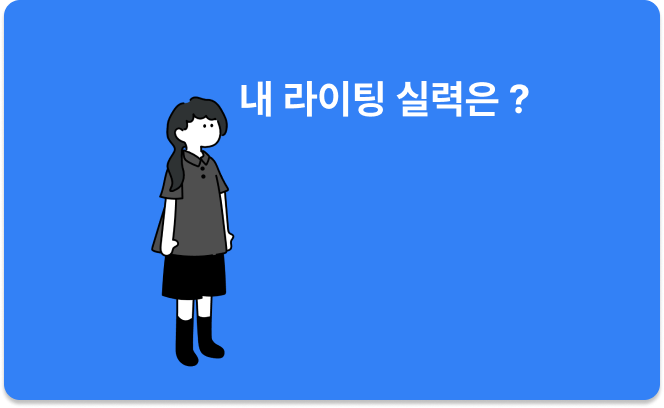
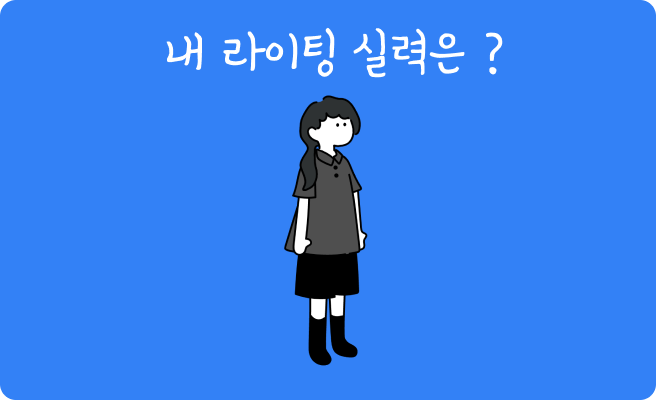
레이아웃 수정

Changed region(s): [[0.2134, 0.06, 0.7927, 0.93], [0.0, 0.0, 1.0, 1.0], [0.2439, 0.09, 0.3049, 0.18]]

diff --git a/src/views/Game.vue b/src/views/Game.vue
@@ -1,64 +1,73 @@
 <template>
-  <div>
-    <div v-if="!isDataLoaded" class="container text-center spinner-container">
-      <div class="spinner-border" role="status">
-        <span class="visually-hidden">로딩 중...</span>
-      </div>
-    </div>
-  </div>
-  <!-- 시작  -->
-  <div class="container-sm w-50 p-3" v-if="isDataLoaded">
-    <!--progress bar -->
-    <div class="row justify-content-center">
-      <div class="col-9 ">
-        <p class="text-end" style="font-size: 15px; margin-bottom: 0; color: #3182F7"><strong>{{ questionIndex + 1 }}
-          / {{ quizArray.length }}</strong></p>
-        <div class="progress" style="height: 10px;">
-          <div class="progress-bar" role="progressbar" style="background-color: #3182F7"
-               :style="{width: ((questionIndex+1)/quizArray.length)*100 + '%'}"
-               :aria-valuenow="((questionIndex+1)/quizArray.length)*100" aria-valuemin="0"
-               aria-valuemax="100">
+  <div class="container">
+    <div class="row">
+      <div class="row">
+        <div v-if="!isDataLoaded" class="spinner-container">
+          <div class="spinner-border" role="status">
+            <span class="visually-hidden">로딩 중...</span>
           </div>
         </div>
       </div>
-    </div>
-    <!-- 글씨 부분 -->
-    <div class="row py-3 justify-content-center">
-      <h1> Quiz {{ questionIndex + 1 }} </h1>
-      <img v-if="!isClickHint" src="../assets/hintButton.png" style="width: 137px; height: 40px"
-           @click="clickHint()">
-      <p v-if="isQuizPage && isClickHint" style="font-family:'나눔 고딕';"> 힌트 : {{ quizArray[questionIndex].hint }}</p>
-      <p v-if="!isQuizPage" style="font-family:'맑은 고딕'; color: #3182F7">{{
-          quizArray[questionIndex].explanation
-        }}</p>
-    </div>
+      <!-- 시작  -->
 
-    <!-- 퀴즈 부분 -->
-    <div class="row justify-content-center py-4 px-1" style="background-color: #F2F3F5; border-radius: 25px;">
-      <div class="col-xl-6 px-3 main1" :class="{ lowOpacity: correctAnswer === 'B'}">
-        <img v-bind:class="{ viewBorder : isBorderA }" src="./../assets/A.png"
-             @click="selectAnswer('B')"
-             class="d-block mx-auto"
-             style="margin-bottom: 26px;" @mouseover="viewBorder('A')" @mouseleave="viewBorder('A')">
-        <img v-bind:class="{ viewBorder : isBorderA }" :src="quizArray[questionIndex].imageA"
-             @click="selectAnswer('A')"
-             @mouseover="viewBorder('A')" @mouseleave="viewBorder('A')"/>
-        <br>
+      <div class="row my-3 justify-content-center" v-if="isDataLoaded">
+        <!--progress bar -->
+        <div class="row justify-content-center">
+          <div class="col-4 ">
+            <p class="text-end" style="font-size: 15px; margin-bottom: 0; color: #3182F7">
+              <strong>{{ questionIndex + 1 }} / {{ quizArray.length }}</strong></p>
+            <div class="progress" style="height: 10px;">
+              <div class="progress-bar" role="progressbar" style="background-color: #3182F7"
+                   :style="{width: ((questionIndex+1)/quizArray.length)*100 + '%'}"
+                   :aria-valuenow="((questionIndex+1)/quizArray.length)*100" aria-valuemin="0"
+                   aria-valuemax="100">
+              </div>
+            </div>
+          </div>
+        </div>
+
+        <!-- 글씨 부분 -->
+        <div class="row my-3 justify-content-center">
+          <h1> Quiz {{ questionIndex + 1 }} </h1>
+          <img class="img-fluid my-2" v-if="!isClickHint" src="../assets/hintButton.png" style="width: 137px; height: 40px"
+               @click="clickHint()">
+          <p v-if="isQuizPage && isClickHint" style="font-family:'나눔 고딕'; height: 40px"> 힌트 : {{ quizArray[questionIndex].hint }}</p>
+          <p v-if="!isQuizPage" style="font-family:'맑은 고딕';height: 40px; color: #3182F7">{{
+              quizArray[questionIndex].explanation
+            }}</p>
+        </div>
+
+        <!-- 퀴즈 부분 -->
+        <div class="row justify-content-center my-2">
+          <div class="col-6 main1 col-md-3" :class="{ lowOpacity: correctAnswer === 'B'}" style="background-color: lightgray; border-radius: 25px 0 0 25px">
+            <img class="img-fluid my-3 initial-quiz" v-bind:class="{ viewBorder : isBorderA }"
+                 src="./../assets/A.png"
+                 @click="selectAnswer('B')"
+                 @mouseover="viewBorder('A')" @mouseleave="viewBorder('A')">
+            <br>
+            <img class="img-fluid initial-quiz" v-bind:class="{ viewBorder : isBorderA }"
+                 :src="quizArray[questionIndex].imageA"
+                 @click="selectAnswer('A')"
+                 @mouseover="viewBorder('A')" @mouseleave="viewBorder('A')" style="margin-bottom: 11px"/>
+          </div>
+          <div class="col-6 main2 col-md-3" :class="{ lowOpacity: correctAnswer === 'A'}" style="background-color: lightgray; border-radius: 0 25px 25px 0">
+            <img class="img-fluid my-3 initial-quiz" v-bind:class="{ viewBorder : isBorderB }"
+                 src="./../assets/B.png"
+                 @click="selectAnswer('B')"
+                 @mouseover="viewBorder('B')" @mouseleave="viewBorder('B')">
+            <br>
+            <img class="img-fluid initial-quiz" v-bind:class="{ viewBorder : isBorderB }"
+                 :src="quizArray[questionIndex].imageB"
+                 @click="selectAnswer('B')"
+                 @mouseover="viewBorder('B')" @mouseleave="viewBorder('B')"/>
+          </div>
+        </div>
+        <div class="col" v-if="!isQuizPage" :key="questionIndex" style="margin-top: 0">
+          <br>
+          <img v-bind:class="{lowOpacity: hoverNextButton }" src="../assets/nextButton.png" @click="nextRound()"
+               @mouseover="hoverButton()" @mouseleave="hoverButton()">
+        </div>
       </div>
-      <div class="col-xl-6 px-3 main2" v-bind:class="{ lowOpacity: correctAnswer === 'A'}">
-        <img v-bind:class="{ viewBorder : isBorderB }" src="./../assets/B.png"
-             @click="selectAnswer('B')"
-             class="d-block mx-auto"
-             style="margin-bottom: 26px;" @mouseover="viewBorder('B')" @mouseleave="viewBorder('B')">
-        <img v-bind:class="{ viewBorder : isBorderB }" :src="quizArray[questionIndex].imageB"
-             @click="selectAnswer('B')"
-             @mouseover="viewBorder('B')" @mouseleave="viewBorder('B')"/>
-      </div>
-    </div>
-    <div class="col" v-if="!isQuizPage" :key="questionIndex">
-      <br>
-      <img v-bind:class="{lowOpacity: hoverNextButton }" src="../assets/nextButton.png" @click="nextRound()"
-           @mouseover="hoverButton()" @mouseleave="hoverButton()">
     </div>
   </div>
 </template>
@@ -95,9 +104,10 @@ export default {
       this.isLoading = true;
       const timestamp = Date.now();
       this.userId = 'session-' + timestamp;
-      this.$axios.get('https://projectjj.shop/rest/getQuiz')
+      this.$axios.get('http://localhost:5000/rest/getQuiz')
           .then(res => {
             const quizData = res.data.item;
+            console.log(quizData)
             this.countAllQuiz = quizData.length;
             console.log(this.userId)
 
@@ -142,7 +152,7 @@ export default {
 
         if (this.questionIndex + 1 === this.countAllQuiz) {
           this.$axios
-              .post('https://projectjj.shop/rest/userAnswer', this.quizAnswers)
+              .post('http://localhost:5000/rest/userAnswer', this.quizAnswers)
               .then(res => {
                 this.countCorrectAnswer = res.data.data;
               })
@@ -191,10 +201,6 @@ export default {
 
 <style scoped>
 
-.container {
-  min-height: 88.5vh;
-}
-
 .main1,
 .main2 {
   opacity: 1;
@@ -216,12 +222,6 @@ export default {
   height: 50%;
 }
 
-.container-sm {
-  max-width: 1663px; /* 원하는 최대 너비로 설정 */
-  margin-left: auto;
-  margin-right: auto;
-}
-
 .viewBorder {
   box-shadow: 0 0 0 5px #3182F7;
   border-radius: 13px;
@@ -236,6 +236,18 @@ export default {
 .fade-enter,
 .fade-leave-to {
   opacity: 0;
+}
+
+.initial-quiz {
+  max-width: 100%;
+  height: auto;
+}
+
+.initial-AB {
+  max-width: 63px;
+  max-height: 56px;
+  width: auto;
+  height: auto;
 }
 
 </style>

diff --git a/src/views/Home.vue b/src/views/Home.vue
@@ -1,19 +1,30 @@
 <template>
   <div class="container">
-    <div class="px-3">
-      <a href="/upload">업로드</a>
+    <div class="row">
+      <div class="row px-3">
+        <a href="/upload">업로드</a>
+      </div>
       <br>
-      <h1><strong>UX 라이팅 퀴즈</strong></h1>
-      <br>
-      <img src="./../assets/home.png">
-      <div v-if="isLoading" class="text-center">
-        <div class="spinner-border" role="status">
-          <span class="visually-hidden">로딩 중...</span>
+      <div class="row">
+        <h1><strong>UX 라이팅 퀴즈</strong></h1>
+      </div>
+      <div class="row justify-content-center">
+        <img class="img-fluid initial-size" src="./../assets/home.png">
+      </div>
+      <div v-if="isLoading" class="row">
+        <div class="text-center">
+          <div class="spinner-border" role="status">
+            <span class="visually-hidden">로딩 중...</span>
+          </div>
         </div>
       </div>
-      <p v-else>현재 총 {{ count }} 명이 참여했습니다.</p>
-      <img v-bind:class="{lowOpacity: hoverNextButton }" src="./../assets/startButton.png" @click="startButton"
-           @mouseover="hoverButton()" @mouseleave="hoverButton()">
+      <div class="row v-else">
+        <p>현재 총 {{ count }} 명이 참여했습니다.</p>
+      </div>
+      <div class="row d-flex justify-content-center">
+        <img class="img-fluid initial-button" v-bind:class="{lowOpacity: hoverNextButton }" src="./../assets/startButton.png" @click="startButton"
+             @mouseover="hoverButton()" @mouseleave="hoverButton()">
+      </div>
     </div>
   </div>
 </template>
@@ -37,7 +48,7 @@ export default {
   methods: {
     getCount() {
       this.isLoading = true;
-      this.$axios.get('https://projectjj.shop/rest/getCount')
+      this.$axios.get('http://localhost:5000/rest/getCount')
           .then(res => {
             this.count = res.data.count;
           })
@@ -67,5 +78,14 @@ export default {
 
 .lowOpacity {
   opacity: 0.4;
+}
+
+.initial-size {
+  max-width: 656px;
+  height: auto;
+}
+.initial-button {
+  max-width: 275px;
+  height: auto;
 }
 </style>

diff --git a/src/views/Test.vue b/src/views/Test.vue
@@ -1,30 +1,15 @@
 <template>
-  <transition name="fade">
-    <div class="container-sm w-50 p-3" v-if="showContent">
-      <transition name="fade">
-        <div class="row">
-          <div class="row justify-content-center">
-            <transition name="fade">
-              <div class="col-xl-6 px-3 main1">
-                <img src="./../assets/A.png" />
-              </div>
-            </transition>
-            <transition name="fade">
-              <div class="col-xl-6 px-3 main2">
-                <img src="./../assets/B.png" />
-              </div>
-            </transition>
-          </div>
-          <div class="row">
-            <div class="col">
-              <br>
-              <img src="../assets/nextButton.png" />
-            </div>
-          </div>
-        </div>
-      </transition>
+  <div class="container">
+    <div class="row">
+      <div class="col-6 col-md-3">
+        <img class="img-fluid" src="../assets/1_IMG_A.png" />
+      </div>
+      <div class="col-6 col-md-3">
+        <!-- 컬럼 2의 내용 -->
+        <img class="img-fluid" src="../assets/1_IMG_B.png" />
+      </div>
     </div>
-  </transition>
+  </div>
 </template>
 
 <script>

diff --git a/vue.config.js b/vue.config.js
@@ -1,17 +1,17 @@
 const { defineConfig } = require('@vue/cli-service');
-const { createProxyMiddleware } = require('http-proxy-middleware');
+// const { createProxyMiddleware } = require('http-proxy-middleware');
 
 module.exports = defineConfig({
   transpileDependencies: true,
-  devServer: {
-    before: function (app) {
-      app.use(
-          "/rest",
-          createProxyMiddleware({
-            target: "http://localhost:8080",
-            changeOrigin: true,
-          })
-      );
-    },
-  },
+  // devServer: {
+  //   before: function (app) {
+  //     app.use(
+  //         "/rest",
+  //         createProxyMiddleware({
+  //           target: "http://localhost:8080",
+  //           changeOrigin: true,
+  //         })
+  //     );
+  //   },
+  // },
 });

diff --git a/src/App.vue b/src/App.vue
@@ -2,7 +2,6 @@
   <body class="d-flex h-100 text-center" id="body">
 
   <div class="container d-flex w-100 h-100 p-3 mx-auto flex-column">
-    <Header/>
     <RouterView/>
     <Footer/>
   </div>
@@ -13,14 +12,12 @@
 
 <script>
 
-import Header from "@/components/Header";
 import Footer from "@/components/Footer";
 
 export default {
   name: 'App',
   components: {
     Footer,
-    Header
   }
 }
 </script>

diff --git a/src/views/Upload.vue b/src/views/Upload.vue
@@ -71,7 +71,7 @@ export default {
       formData.append('hint', this.hint);
       formData.append('explanation', this.explanation);
 
-      this.$axios.post('https://projectjj.shop/upload', formData)
+      this.$axios.post('http://localhost:5000/upload', formData)
           .then(res => {
             console.log(res);
           })

diff --git a/src/views/Result.vue b/src/views/Result.vue
@@ -25,7 +25,7 @@ export default {
       console.log(userId, this.countCorrectAnswer)
 
       this.$axios
-          .get("https://projectjj.shop/result", {
+          .get("http://localhost:5000/result", {
             params:{
               userId: userId,
               countCorrectAnswer: this.countCorrectAnswer,

diff --git a/src/components/Footer.vue b/src/components/Footer.vue
@@ -1,5 +1,5 @@
 <template>
-  <footer class="mt-auto">
+  <footer class="footer py-3 sticky-footer">
     <p>Made by : Project JJ</p>
   </footer>
 </template>
